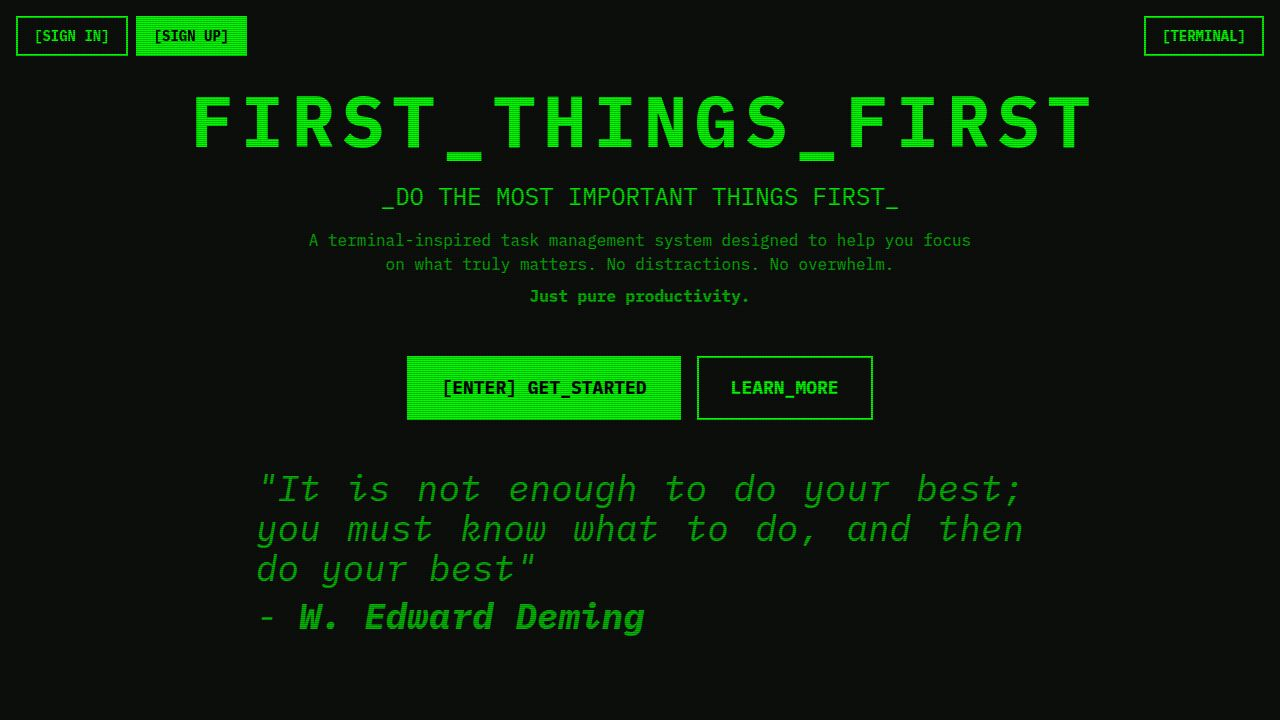
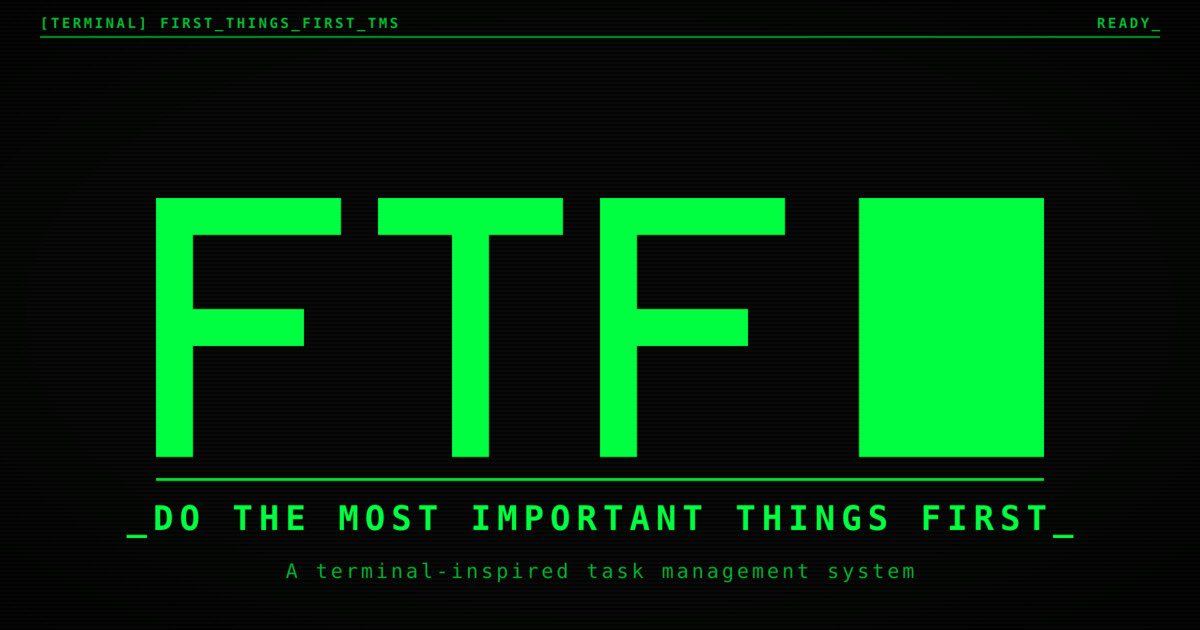
Show FTF brand in social/chat link previews (Task #18)
Replaces the generic Replit placeholder image in Open Graph / Twitter
Card previews with a branded FTF social card so shared links match the
favicon/home-screen branding.

Changes:
- Regenerated `client/public/opengraph.jpg` at the recommended 1200x630
  resolution. The card is rendered from an SVG built off the same
  pixel geometry as `client/public/clerk/logo-terminal.svg`, so the
  giant "FTF" wordmark + cursor block match the rest of the brand.
  Includes the tagline "_DO THE MOST IMPORTANT THINGS FIRST_", a small
  "[TERMINAL] FIRST_THINGS_FIRST_TMS / READY_" status bar, subtle
  scanlines, and a CRT vignette on the near-black terminal background.
- Updated `client/index.html`:
  - `og:image` and `twitter:image` now use absolute HTTPS URLs to the
    local `/opengraph.jpg` asset (previously the generic
    `https://replit.com/public/images/opengraph.png`).
  - Added `og:image:width` (1200), `og:image:height` (630),
    `og:image:type` (image/jpeg), and image `:alt` text for both
    OpenGraph and Twitter so crawlers can size the preview correctly
    and screen readers get a description.
- `vite-plugin-meta-images.ts`: rewrites `og:image` / `twitter:image`
  on every served + built HTML to the actual deployment domain. Added
  a `REPLIT_DOMAINS` fallback in `getDeploymentUrl()` so published
  deployments (which expose `REPLIT_DOMAINS` rather than the dev /
  internal domain envs) also get the canonical absolute URL.

Verification:
[…]

diff --git a/client/index.html b/client/index.html
@@ -7,12 +7,17 @@
     <meta property="og:title" content="First things first" />
     <meta property="og:description" content="Personal task management system inspired by Bloomberg Terminal and IBM 3270." />
     <meta property="og:type" content="website" />
-    <meta property="og:image" content="https://replit.com/public/images/opengraph.png" />
+    <meta property="og:image" content="https://2279ef02-b439-4d4b-80a6-f6ae09744ec2-00-8sz4v1kqf1ys-lax1ggvf.kirk.replit.dev/opengraph.jpg" />
+    <meta property="og:image:width" content="1200" />
+    <meta property="og:image:height" content="630" />
+    <meta property="og:image:type" content="image/jpeg" />
+    <meta property="og:image:alt" content="FTF — DO THE MOST IMPORTANT THINGS FIRST" />
     <meta name="twitter:card" content="summary_large_image" />
     <meta name="twitter:site" content="@replit" />
     <meta name="twitter:title" content="First things first" />
     <meta name="twitter:description" content="Personal task management system inspired by Bloomberg Terminal and IBM 3270." />
-    <meta name="twitter:image" content="https://replit.com/public/images/opengraph.png" />
+    <meta name="twitter:image" content="https://2279ef02-b439-4d4b-80a6-f6ae09744ec2-00-8sz4v1kqf1ys-lax1ggvf.kirk.replit.dev/opengraph.jpg" />
+    <meta name="twitter:image:alt" content="FTF — DO THE MOST IMPORTANT THINGS FIRST" />
 
     <title>First Things First</title>
     <link rel="icon" type="image/svg+xml" href="/favicon.svg" media="(prefers-color-scheme: dark)" />

diff --git a/vite-plugin-meta-images.ts b/vite-plugin-meta-images.ts
@@ -68,6 +68,17 @@ function getDeploymentUrl(): string | null {
     return url;
   }
 
+  // REPLIT_DOMAINS is set on published deployments (comma-separated list).
+  // Use the first entry as the canonical absolute URL host.
+  if (process.env.REPLIT_DOMAINS) {
+    const firstDomain = process.env.REPLIT_DOMAINS.split(',')[0].trim();
+    if (firstDomain) {
+      const url = `https://${firstDomain}`;
+      log('[meta-images] using replit domains:', url);
+      return url;
+    }
+  }
+
   return null;
 }
 
